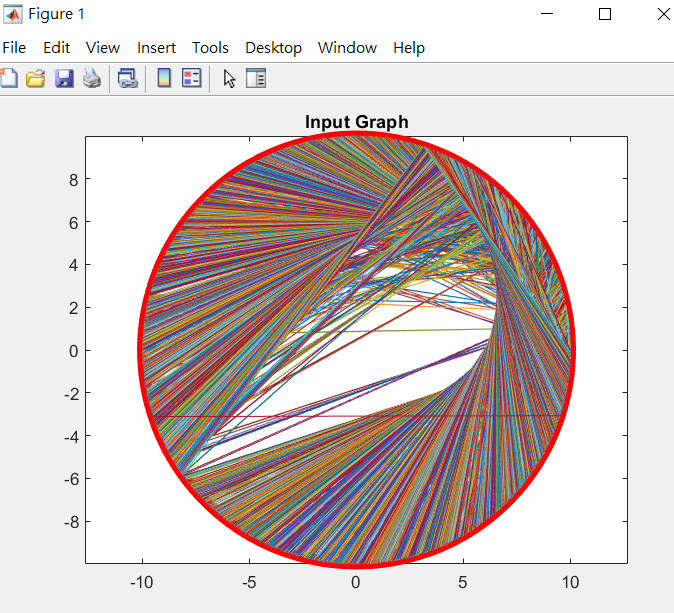
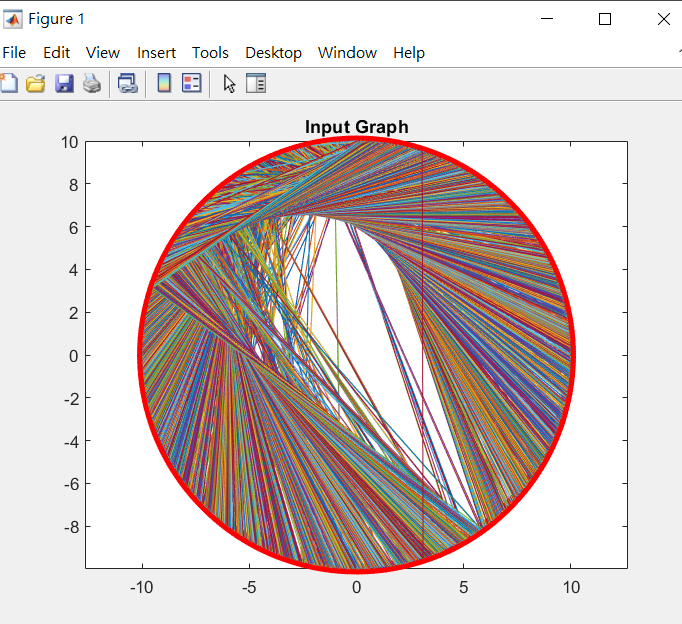
wait for Hamiltonian

diff --git a/src/graph_coloring.m b/src/graph_coloring.m
@@ -4,85 +4,98 @@ function graph_coloring(file_name)
     fclose(fileID);
     size = buffer(1,1);
     edge = buffer(2,1);
-    color = buffer(3,1);
     data = false(size);
     degree = zeros(size,1);
     for i = 1 : edge
-        start = buffer(2*i+2,1);
-        over = buffer(2*i+3,1);
+        start = buffer(2*i+1,1);
+        over = buffer(2*i+2,1);
         data(start,over) = true;
         data(over, start) = true;
         degree(start,1) = degree(start,1) + 1;
         degree(over,1) = degree(over,1) + 1;
     end
     initial_graph(data);
-    max_degree = max(degree);
-    global_minimum = false;
-    last_total_energy = Inf;
-    error_rate = 0.01;
-    infinite_factor = 100;
-    init_t = max_degree;
-    min_t = (error_rate/(size * (log2(size)) * 3 / 2));
-    beta = 1.0 / (max_degree * infinite_factor);
-    same_energy_count = 0;
-    break_count = 100;
-    current_t=init_t;
-    spin = false(size,color);
-    first_sum_v = size; 
-    first_sum_i = zeros(size,1);
-    second_sum = 0;
-    first_sum_i_next = zeros(size,1);
-    total_energy = 0;
-    while(current_t>min_t)       
-            for v = 1 : size
+    left = 1;
+    right = size;
+    ans_color = right;
+    while (left <= right)
+        color = round((left + right)/ 2);
+        max_degree = max(degree);
+        global_minimum = false;
+        last_total_energy = Inf;
+        error_rate = 0.01;
+        infinite_factor = 100;
+        init_t = max_degree;
+        min_t = (error_rate/(size * (log2(size)) * 3 / 2));
+        beta = 1.0 / (max_degree * infinite_factor);
+        same_energy_count = 0;
+        break_count = 100;
+        current_t=init_t;
+        spin = false(size,color);
+        first_sum_v = size; 
+        first_sum_i = zeros(size,1);
+        second_sum = 0;
+        first_sum_i_next = zeros(size,1);
+        total_energy = 0;
+        while(current_t>min_t)       
                 for i = 1 : color
-                    if(spin(v,i))% // 1 to 0
-                        first_sum_i_next(v,1) = first_sum_i(v,1) - 1;
-                        second_difference = calculate_second_difference(spin, data, size, v, i, false) ;  
-                    else % 0 to 1
-                        first_sum_i_next(v,1) = first_sum_i(v,1) + 1;
-                        second_difference = calculate_second_difference(spin, data, size, v, i, true) ;     
-                    end
-                    first_sum_v_next = first_sum_v - mpower((1-first_sum_i(v,1)),2) + mpower((1-first_sum_i_next(v,1)),2);
-                    energy_difference = first_sum_v_next - first_sum_v + second_difference;
-                    if (energy_difference < 0)
-                        spin(v,i) = (~spin(v,i));
-                        first_sum_v = first_sum_v_next; 
-                        first_sum_i(v,1) = first_sum_i_next(v,1);
-                        second_sum = second_sum + second_difference;
-                        total_energy = first_sum_v + second_sum;
-                        if (total_energy == 0)
-                            global_minimum = false;
-                        end              
-                    elseif(~global_minimum) 
-                        prob = exp(-energy_difference/current_t);
-                        if (prob>rand)
+                    for v = 1 : size
+                        if(spin(v,i))% // 1 to 0
+                            first_sum_i_next(v,1) = first_sum_i(v,1) - 1;
+                            second_difference = calculate_second_difference(spin, data, size, v, i, false) ;  
+                        else % 0 to 1
+                            first_sum_i_next(v,1) = first_sum_i(v,1) + 1;
+                            second_difference = calculate_second_difference(spin, data, size, v, i, true) ;     
+                        end
+                        first_sum_v_next = first_sum_v - mpower((1-first_sum_i(v,1)),2) + mpower((1-first_sum_i_next(v,1)),2);
+                        energy_difference = first_sum_v_next - first_sum_v + second_difference;
+                        if (energy_difference < 0)
                             spin(v,i) = (~spin(v,i));
                             first_sum_v = first_sum_v_next; 
                             first_sum_i(v,1) = first_sum_i_next(v,1);
                             second_sum = second_sum + second_difference;
                             total_energy = first_sum_v + second_sum;
-                        end                        
-                    end      
-                end                
-            end        
-        fprintf("first sum  %d second sum %d current t %f total energy %d\n",first_sum_v, second_sum, current_t, total_energy);
-        current_t = current_t / (1 + beta * current_t);
-        if (global_minimum)
-            break;
-        end        
-        if (last_total_energy == total_energy)
-            if (same_energy_count == break_count)
+                            if (total_energy == 0)
+                                global_minimum = true;
+                            end              
+                        elseif(~global_minimum) 
+                            prob = exp(-energy_difference/current_t);
+                            if (prob>rand)
+                                spin(v,i) = (~spin(v,i));
+                                first_sum_v = first_sum_v_next; 
+                                first_sum_i(v,1) = first_sum_i_next(v,1);
+                                second_sum = second_sum + second_difference;
+                                total_energy = first_sum_v + second_sum;
+                            end                        
+                        end      
+                    end                
+                end        
+            fprintf("first sum  %d second sum %d current t %f total energy %d color %d\n",first_sum_v, second_sum, current_t, total_energy, color);
+            current_t = current_t / (1 + beta * current_t);
+            if (global_minimum)
                 break;
-            end            
-            same_energy_count = same_energy_count + 1;
+            end        
+            if (last_total_energy == total_energy)
+                if (same_energy_count == break_count)
+                    break;
+                end            
+                same_energy_count = same_energy_count + 1;
+            else
+                same_energy_count = 0;
+                last_total_energy = total_energy;
+            end 
+        end
+        fprintf("color %d global_minimum %s\n", color, mat2str(global_minimum));
+        if global_minimum
+            ans_color = min([ans_color, color]);
+            right = color - 1;
         else
-            same_energy_count = 0;
-            last_total_energy = total_energy;
-        end 
-    end  
+            left = color + 1;
+        end
+    end
+    fprintf("final color %d\n", ans_color);
     ising_configuration_2D(spin);
-    graph_coloring_final_graph(spin, data, color);
+    graph_coloring_final_graph(spin, data, ans_color);
 end
 function graph_coloring_final_graph(spin, data, color)
     spin_size = size(spin,1);

diff --git a/src/graph_partitioning.m b/src/graph_partitioning.m
@@ -102,31 +102,5 @@ function graph_partitioning(file_name)
         end  
     end
     ising_configuration_1D(spin);
-    graph_partitioning_final_graph(data,size,spin);
-end
-function graph_partitioning_final_graph(data,size,spin)
-    f = figure;
-    R = 1;
-    alf=linspace(pi/2,5/2*pi,size+1);
-    x = R*cos(alf);
-    y = R*sin(alf);
-    for i = 1 : size
-        if(spin(i,1) == 1)
-            plot(x(i),y(i),'ro');
-            hold on;
-        else
-            plot(x(i),y(i),'bd');
-            hold on;
-        end
-    end
-    for i = 1 : size
-        for j = 1 : (i-1)
-            if(spin(i,1) ~= spin(j,1) && data(i,j)~=0)
-                plot([x(i),x(j)],[y(i),y(j)]);
-                hold on;
-            end
-        end
-    end
-    axis 'equal';
-    title('Final Graph');
+    graph_partitioning_max_cut_final_graph(data,size,spin);
 end

diff --git a/src/vertex_cover.m b/src/vertex_cover.m
@@ -80,8 +80,8 @@ function vertex_cover(file_name)
     ising_configuration_1D(spin);
     vertex_cover_final_graph(data,size,spin)
 end
-function vertex_cover_final_graph(data,size,spin)
-    f = figure;
+function vertex_cover_final_graph(size,spin)
+    f3 = figure;
     R = 1;
     alf=linspace(pi/2,5/2*pi,size+1);
     x = R*cos(alf);
@@ -95,16 +95,6 @@ function vertex_cover_final_graph(data,size,spin)
             hold on;
         end
     end
-    %{
-    for i = 1 : size
-        for j = 1 : (i-1)
-            if(data(i,j)~=0)
-                plot([x(i),x(j)],[y(i),y(j)]);
-                hold on
-            end
-        end
-    end
-    %}
     legend([p1,p2],{'colored vertices','uncolored vertices'},'Location','northeastoutside');
     axis 'equal';
     title('Final Graph');

diff --git a/src/graph_partitioning_max_cut_final_graph.m b/src/graph_partitioning_max_cut_final_graph.m
@@ -1,15 +1,15 @@
 function graph_partitioning_max_cut_final_graph(data,size,spin)
-    f2 = figure;
+    f3 = figure;
     R = 1;
     alf=linspace(pi/2,5/2*pi,size+1);
     x = R*cos(alf);
     y = R*sin(alf);
     for i = 1 : size
         if(spin(i,1) == 1)
-            plot(x(i),y(i),'ro');
+            p1 = plot(x(i),y(i),'ro');
             hold on;
         else
-            plot(x(i),y(i),'bd');
+            p2 = plot(x(i),y(i),'bo');
             hold on;
         end
     end
@@ -21,6 +21,7 @@ function graph_partitioning_max_cut_final_graph(data,size,spin)
             end
         end
     end
+    legend([p1,p2],{'set 1','set 2'},'Location','northeastoutside');
     axis 'equal';
     title('Final Graph');
 end

diff --git a/src/get_selected_problem.m b/src/get_selected_problem.m
@@ -18,7 +18,7 @@ function selection = get_selected_problem
         'Position',[0.25 0.7 0.5 0.07]);
     h.outputValuesButton=uicontrol('Parent',f,...
         'Style','pushbutton',...
-        'String','Graph coloring Problem',...
+        'String','Graph Coloring Problem',...
         'Callback',@gc,...
         'FontSize',10,...
         'Units','Normalized',...

diff --git a/src/set_packing.m b/src/set_packing.m
@@ -94,7 +94,7 @@ function set_packing(file_name)
     set_packing_final_graph(intersection,size,spin)
 end
 function set_packing_final_graph(intersection,size,spin)
-    f = figure;
+    f3 = figure;
     R = 1;
     alf=linspace(pi/2,5/2*pi,size+1);
     x = R*cos(alf);

diff --git a/src/initial_graph.m b/src/initial_graph.m
@@ -2,7 +2,7 @@ function initial_graph(data)
     spin_size = size(data,1);
     f1 = figure;
     R = 10;
-    alf = linspace(0,2*pi,spin_size+1);
+    alf=linspace(pi/2,5/2*pi,spin_size+1);
     x = R*cos(alf);
     y = R*sin(alf);
     plot(x,y,'ro');

diff --git a/src/hamiltonian_cycle_asymetric_traveling_salesman_graph.m b/src/hamiltonian_cycle_asymetric_traveling_salesman_graph.m
@@ -1,6 +1,6 @@
 function hamiltonian_cycle_asymetric_traveling_salesman_graph(spin)
     spin_size = size(spin,1);
-    f = figure;
+    f3 = figure;
     alf = linspace(pi/2,5/2*pi,spin_size+1);
     R = 1;
     x = R*cos(alf);
